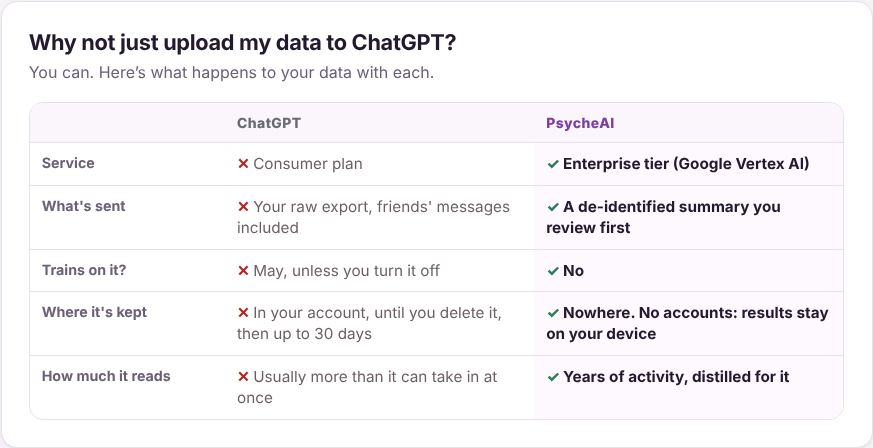
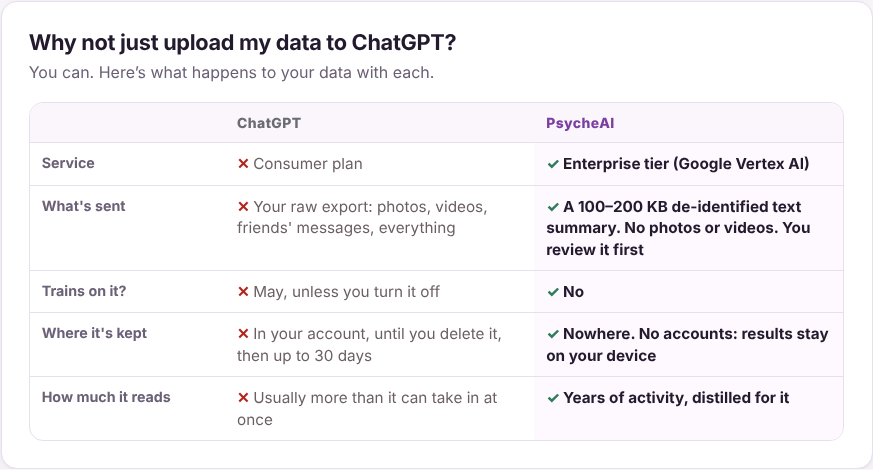
ChatGPT section mock-up: a table on phones too; what's sent names photos and videos, and the summary's size
Claude-Session: https://claude.ai/code/session_01BKbBivdSx1ByKkp8YWCRTE

diff --git a/marketing/site-mockups/front-page-sections.html b/marketing/site-mockups/front-page-sections.html
@@ -24,7 +24,7 @@
   <div class="vs-diff">
     <div class="vs-row vs-headrow"><span></span><span class="vs-c1">ChatGPT</span><span class="vs-c2">PsycheAI</span></div>
     <div class="vs-row"><span class="vs-k">Service</span><span class="vs-c1">Consumer plan</span><span class="vs-c2">Enterprise tier (Google Vertex AI)</span></div>
-    <div class="vs-row"><span class="vs-k">What's sent</span><span class="vs-c1">Your raw export, friends' messages included</span><span class="vs-c2">A de-identified summary you review first</span></div>
+    <div class="vs-row"><span class="vs-k">What's sent</span><span class="vs-c1">Your raw export: photos, videos, friends' messages, everything</span><span class="vs-c2">A 100–200 KB de-identified text summary. No photos or videos. You review it first</span></div>
     <div class="vs-row"><span class="vs-k">Trains on it?</span><span class="vs-c1">May, unless you turn it off</span><span class="vs-c2">No</span></div>
     <div class="vs-row"><span class="vs-k">Where it's kept</span><span class="vs-c1">In your account, until you delete it, then up to 30 days</span><span class="vs-c2">Nowhere. No accounts: results stay on your device</span></div>
     <div class="vs-row"><span class="vs-k">How much it reads</span><span class="vs-c1">Usually more than it can take in at once</span><span class="vs-c2">Years of activity, distilled for it</span></div>

diff --git a/marketing/site-mockups/front-page-sections.css b/marketing/site-mockups/front-page-sections.css
@@ -31,13 +31,11 @@
 .vs-row:not(.vs-headrow) .vs-c1::before { content: '✕ '; color: #b3261e; font-weight: 800; }
 .vs-row:not(.vs-headrow) .vs-c2 { font-weight: 650; background: #fdf9ff; }
 .vs-row:not(.vs-headrow) .vs-c2::before { content: '✓ '; color: var(--good); font-weight: 800; }
-/* On a phone, each row is its label, then the two answers under it, each named. */
+/* On a phone, still a table: three narrower columns, smaller type. */
 @media (max-width: 640px) {
-  .vs-headrow { display: none; }
-  .vs-row { grid-template-columns: 1fr; }
-  .vs-row > span { padding: 6px 12px; }
-  .vs-k { padding-top: 10px !important; }
-  .vs-row:not(.vs-headrow) .vs-c1::before { content: '✕ ChatGPT: '; }
-  .vs-row:not(.vs-headrow) .vs-c2::before { content: '✓ PsycheAI: '; }
-  .vs-row .vs-c2 { padding-bottom: 10px !important; }
+  .vs-diff { font-size: .78rem; }
+  .vs-row { grid-template-columns: 24% 1fr 1fr; }
+  .vs-row > span { padding: 8px 7px; }
+  .vs-k { font-size: .74rem; }
+  .vs-headrow { font-size: .74rem; }
 }
